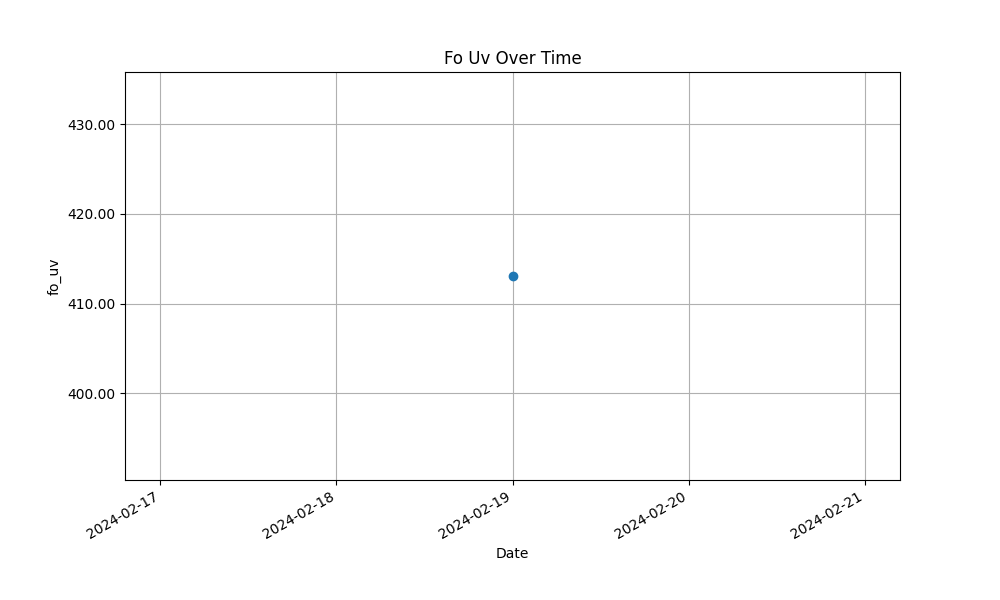
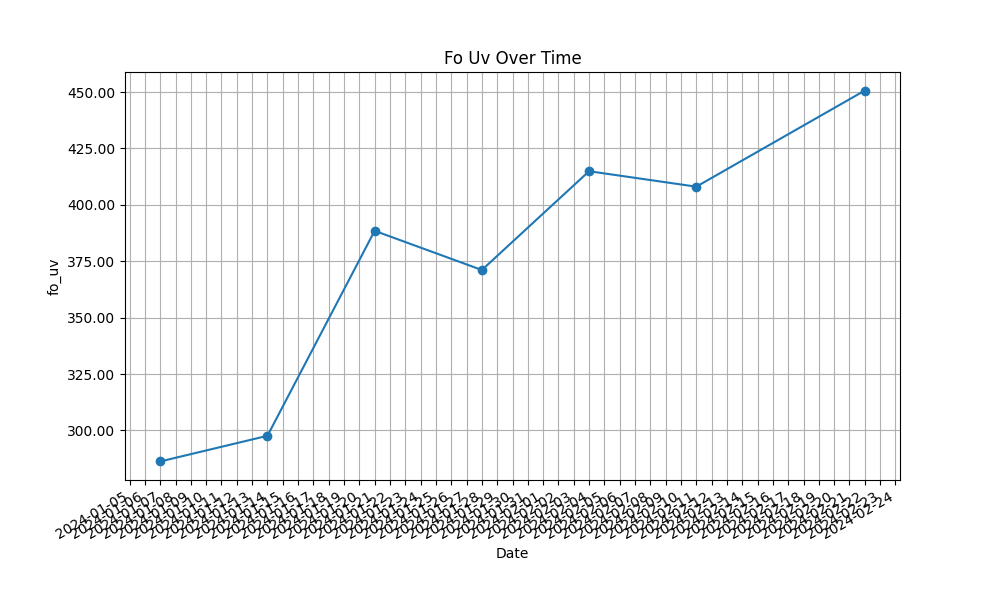
chore: backfill weekly data

diff --git a/Data.md b/Data.md
@@ -1,0 +1,133 @@
+# Data
+
+_Generated on **2024-02-22** for data in range **2024-02-12 00:00:00** to **2024-02-18 00:00:00**._
+
+The schema for the raw data is as follows:
+
+- `device_id` (varchar): Unique identifier for the device.
+- `timestamp` (bigint): Timestamp (unix milliseconds).
+- `temperature` (double): Temperature (Celsius).
+- `humidity` (double): Relative humidity reading (%).
+- `precipitation_accumulated` (double): Total precipitation (millimeters).
+- `wind_speed` (double): Wind speed (meters per second).
+- `wind_gust` (double): Wind gust (meters per second).
+- `wind_direction` (double): Wind direction (degrees).
+- `illuminance` (double): Illuminance (lux).
+- `solar_irradiance` (double): Solar irradiance (watts per square meter).
+- `fo_uv` (double): UV-related index value.
+- `uv_index` (double): UV index.
+- `precipitation_rate` (double): Precipitation rate (millimeters per hour).
+- `pressure` (double): Pressure (HectoPascals).
+- `name` (varchar): Name of the device.
+- `utc_datetime` (varchar): Timestamp from the raw data in UTC.
+- `model` (varchar): Model of the device (either WXM WS1000 or WXM WS2000).
+- `cell_id` (varchar): Cell ID of the device.
+- `lat` (double): Latitude of the cell.
+- `lon` (double): Longitude of the cell.
+
+Most of the columns above are included in the mean calculations, and there are three additional columns for aggregates:
+
+- `total_precipitation` (double): Total `precipitation_accumulated` (millimeters).
+- `number_of_devices` (int): Count of unique `device_id` values.
+- `cell_id_mode` (varchar): Most common `cell_id` value.
+
+And three additional columns for run metadata:
+
+- `job_date` (varchar): Date the job was run.
+- `range_start` (bigint): Start of the query range (unix milliseconds).
+- `range_end` (bigint): End of the query range (unix milliseconds).
+
+## Averages & cumulative metrics
+
+| Job Date   | Range Start   | Range End     | Number Of Devices | Cell Id Mode    | Total Precipitation | Temperature | Humidity | Precipitation Accumulated |
+|------------|---------------|---------------|-------------------|-----------------|---------------------|-------------|----------|---------------------------|
+| 2024-02-22 | 1707696000000 | 1708214400000 | 4529              | 871eda743ffffff | 193516426836.855    | 8.134       | 79.255   | 2021.867                  |
+
+| Wind Speed | Wind Gust | Wind Direction | Illuminance | Solar Irradiance | Fo Uv   | Uv Index | Precipitation Rate | Pressure |
+|------------|-----------|----------------|-------------|------------------|---------|----------|--------------------|----------|
+| 0.817      | 1.142     | 191.550        | 245438.146  | 1944.125         | 450.654 | 0.435    | 0.062              | 991.439  |
+
+## Precipitation accumulated maps
+
+### North America
+
+![North America](./assets/maps/precipitation_map_north_america.png)
+
+### South America
+
+![South America](./assets/maps/precipitation_map_south_america.png)
+
+### Africa
+
+![Africa](./assets/maps/precipitation_map_africa.png)
+
+### Europe
+
+![Europe](./assets/maps/precipitation_map_europe.png)
+
+### Asia
+
+![Asia](./assets/maps/precipitation_map_asia.png)
+
+### Australia
+
+![Australia](./assets/maps/precipitation_map_australia.png)
+
+## Historical plots
+
+### Number Of Devices
+
+![Number Of Devices](./assets/averages/number_of_devices.png)
+
+### Total Precipitation
+
+![Total Precipitation](./assets/averages/total_precipitation.png)
+
+### Temperature
+
+![Temperature](./assets/averages/temperature.png)
+
+### Humidity
+
+![Humidity](./assets/averages/humidity.png)
+
+### Precipitation Accumulated
+
+![Precipitation Accumulated](./assets/averages/precipitation_accumulated.png)
+
+### Wind Speed
+
+![Wind Speed](./assets/averages/wind_speed.png)
+
+### Wind Gust
+
+![Wind Gust](./assets/averages/wind_gust.png)
+
+### Wind Direction
+
+![Wind Direction](./assets/averages/wind_direction.png)
+
+### Illuminance
+
+![Illuminance](./assets/averages/illuminance.png)
+
+### Solar Irradiance
+
+![Solar Irradiance](./assets/averages/solar_irradiance.png)
+
+### Fo Uv
+
+![Fo Uv](./assets/averages/fo_uv.png)
+
+### Uv Index
+
+![Uv Index](./assets/averages/uv_index.png)
+
+### Precipitation Rate
+
+![Precipitation Rate](./assets/averages/precipitation_rate.png)
+
+### Pressure
+
+![Pressure](./assets/averages/pressure.png)
+
